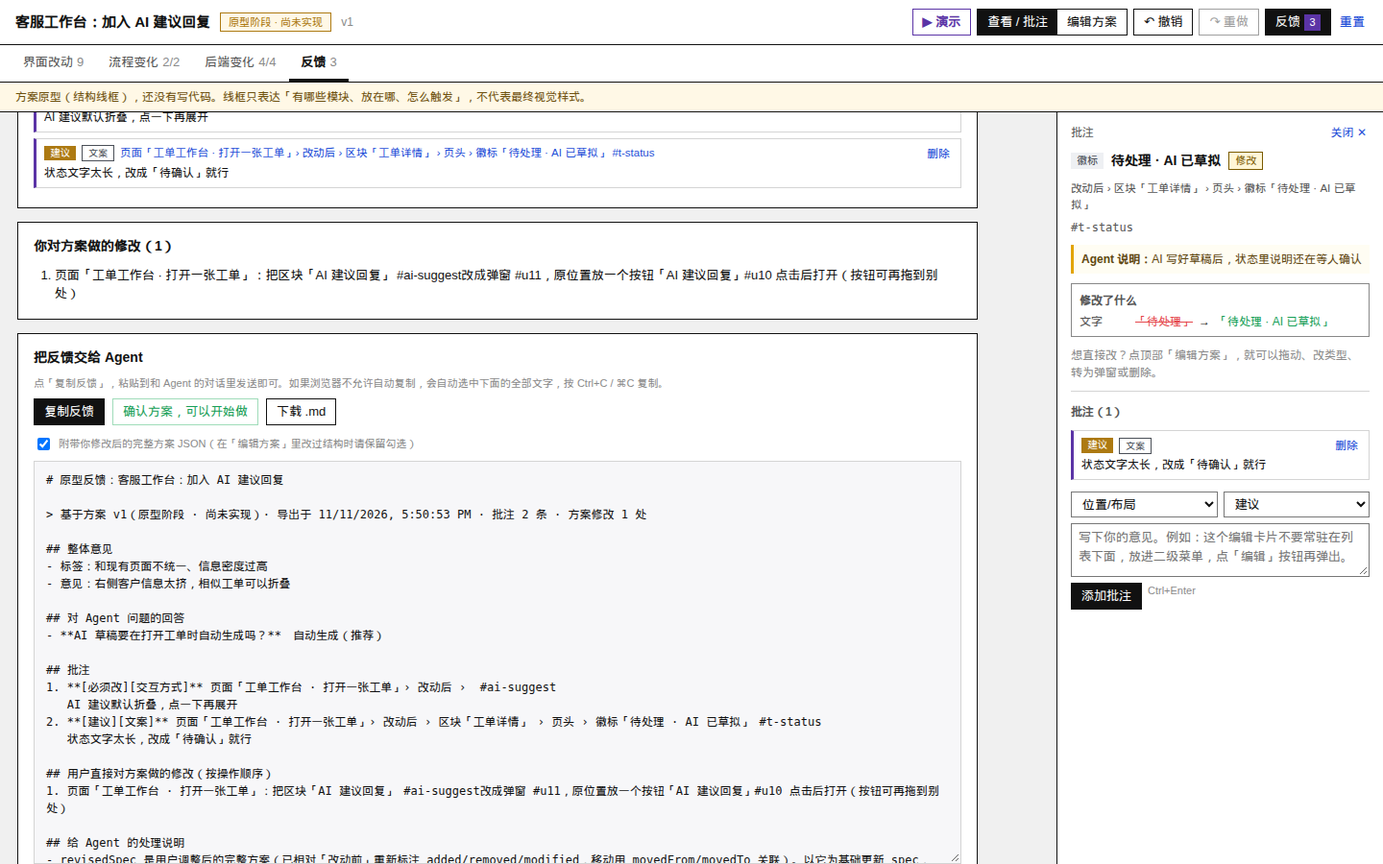
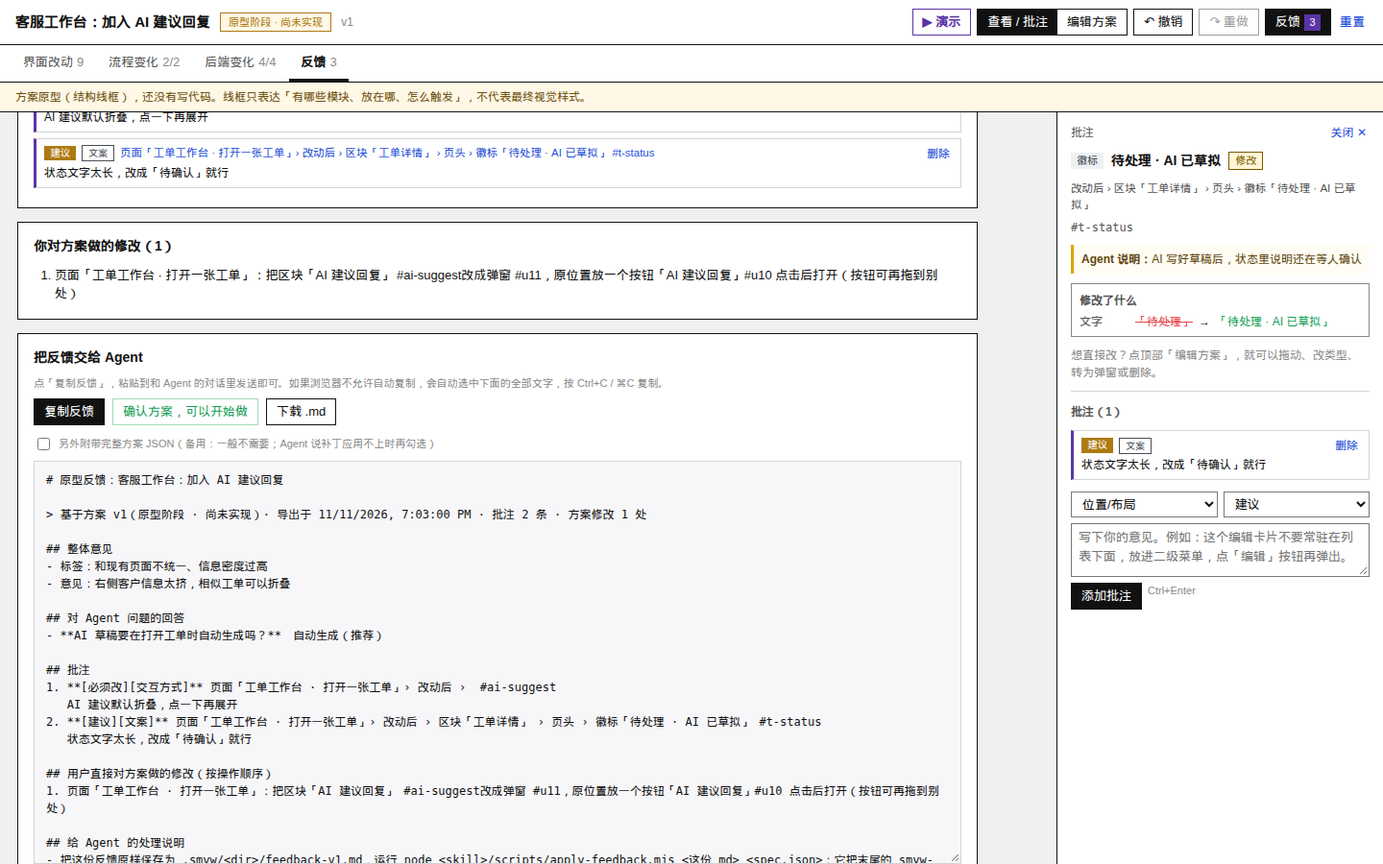
Feedback carries a node-level patch instead of the full spec; docs: edit specs in place

Changed region(s): [[0.0312, 0.9644, 0.6875, 1.0], [0.0312, 0.4978, 0.3125, 0.5289]]

diff --git a/skills/smyw/examples/helpdesk-ai/preview.html b/skills/smyw/examples/helpdesk-ai/preview.html
@@ -566,7 +566,7 @@ let S = loadState() || freshState();
 let undoStack = [];
 let redoStack = [];
 const uiSaved = readJSON(KEY + ':ui') || {};
-const ui = { tab: ['canvas', 'flows', 'backend', 'feedback'].indexOf(uiSaved.tab) >= 0 ? uiSaved.tab : 'canvas', page: uiSaved.page, mode: 'view', sel: null, unit: null, cam: null, showLinks: false, play: null, showFn: false, showComp: false, fade: false, space: false, panMoved: false, overlayOpen: null, includeSpec: true, confirmReset: false, toast: null };
+const ui = { tab: ['canvas', 'flows', 'backend', 'feedback'].indexOf(uiSaved.tab) >= 0 ? uiSaved.tab : 'canvas', page: uiSaved.page, mode: 'view', sel: null, unit: null, cam: null, showLinks: false, play: null, showFn: false, showComp: false, fade: false, space: false, panMoved: false, overlayOpen: null, includeSpec: false, confirmReset: false, toast: null };
 if (!pageById(ui.page)) { const first = S.spec.pages.find((p) => pageStatus(p) !== 'unchanged') || S.spec.pages[0]; ui.page = first ? first.id : null; }
 let drag = null;
 let dropEl = null;
@@ -2095,28 +2095,79 @@ function renderFeedback() {
         h('button', { class: 'primary', onclick: copyFeedback }, '复制反馈'),
         h('button', { class: 'ok' + (S.approved ? ' on' : ''), onclick: () => mutate(() => { S.approved = !S.approved; return null; }), title: '没有意见或意见不影响方向时勾选，Agent 会开始实现' }, S.approved ? '✓ 已确认方案' : '确认方案，可以开始做'),
         h('button', { onclick: () => download('feedback.md', buildMarkdown(ui.includeSpec), 'text/markdown'), title: '部分预览环境（沙箱）不允许下载' }, '下载 .md')),
-      h('label', { class: 'hint', style: 'display:flex;gap:6px;align-items:center;margin-bottom:8px' }, h('input', { type: 'checkbox', checked: ui.includeSpec, style: 'width:auto', onchange: (e) => { ui.includeSpec = e.target.checked; render(); } }), '附带你修改后的完整方案 JSON（在「编辑方案」里改过结构时请保留勾选）'),
+      h('label', { class: 'hint', style: 'display:flex;gap:6px;align-items:center;margin-bottom:8px' }, h('input', { type: 'checkbox', checked: ui.includeSpec, style: 'width:auto', onchange: (e) => { ui.includeSpec = e.target.checked; render(); } }), '另外附带完整方案 JSON（备用：一般不需要；Agent 说补丁应用不上时再勾选）'),
       h('textarea', { class: 'md', id: 'smyw-out', 'data-f': 'smyw-out', readonly: true, value: md, onfocus: (e) => e.target.select() })));
 }
 function answersList() {
   return S.spec.questions.map((q, i) => { const qq = typeof q === 'string' ? { q: q } : q; const key = qq.id || String(i); return { id: key, question: qq.q || qq.question || '', answer: S.answers[key] || '' }; }).filter((a) => a.answer);
 }
-function cleanSpec() {
-  const sp = clone(S.spec);
+function stripSpec(sp) {
   const strip = (o) => {
     if (Array.isArray(o)) { o.forEach(strip); return; }
     if (!o || typeof o !== 'object') return;
     Object.keys(o).forEach((k) => { if (k.charAt(0) === '_' || (k === 'change' && o[k] === 'unchanged')) delete o[k]; else strip(o[k]); });
   };
   strip(sp);
+  return sp;
+}
+function cleanSpec() {
+  const sp = stripSpec(clone(S.spec));
   sp.basedOnVersion = BASE.version;
   return sp;
 }
+/* ---- node-level patch (smyw-patch@1): what the user changed, relative to the spec the agent wrote.
+ * Every id-bearing object (page, node, flow, step, backend module / item) is addressed by id.
+ * ops: del {id} · move {id,parent,key} · add {parent,key,node} · set {id,set,unset} · order {parent,key,ids} · top {set,unset}
+ * parent "#spec" = the spec itself; key = pages | flows | backend | root | overlays | children | steps | items. */
+const PATCH_SKIP_TOP = new Set(['pages', 'flows', 'backend', 'version', 'basedOnVersion']);
+function flatSpec(sp) {
+  const nodes = new Map(), lists = new Map();
+  const put = (o, kind, parent, key) => {
+    if (!o || typeof o !== 'object' || o.id == null) return;
+    const id = String(o.id), fields = {};
+    const own = kind === 'page' ? ['root', 'overlays'] : kind === 'node' ? ['children'] : kind === 'flow' ? ['steps'] : kind === 'mod' ? ['items'] : [];
+    Object.keys(o).forEach((k) => { if (own.indexOf(k) < 0) fields[k] = o[k]; });
+    nodes.set(id, { kind: kind, parent: parent, key: key, fields: fields, obj: o });
+    const kids = (k, list, ck) => { if (!Array.isArray(list)) return; lists.set(id + ' ' + k, list.map((x) => String(x.id))); list.forEach((x) => put(x, ck, id, k)); };
+    if (kind === 'page') { if (o.root) put(o.root, 'node', id, 'root'); kids('overlays', o.overlays, 'node'); }
+    else if (kind === 'node') kids('children', o.children, 'node');
+    else if (kind === 'flow') kids('steps', o.steps, 'step');
+    else if (kind === 'mod') kids('items', o.items, 'item');
+  };
+  [['pages', 'page'], ['flows', 'flow'], ['backend', 'mod']].forEach((x) => { const list = sp[x[0]] || []; lists.set('#spec ' + x[0], list.map((o) => String(o.id))); list.forEach((o) => put(o, x[1], '#spec', x[0])); });
+  const top = {}; Object.keys(sp).forEach((k) => { if (!PATCH_SKIP_TOP.has(k)) top[k] = sp[k]; });
+  return { nodes: nodes, lists: lists, top: top };
+}
+function fieldDiff(a, b) {
+  const set = {}, unset = [];
+  Object.keys(b).forEach((k) => { if (!same(a[k], b[k])) set[k] = b[k]; });
+  Object.keys(a).forEach((k) => { if (!(k in b)) unset.push(k); });
+  return Object.keys(set).length || unset.length ? { set: set, unset: unset } : null;
+}
+function specPatch() {
+  const A = flatSpec(stripSpec(normalize(clone(BASE)))), B = flatSpec(stripSpec(clone(S.spec)));
+  const ops = [];
+  const isNew = (id) => id !== '#spec' && !A.nodes.has(id);
+  A.nodes.forEach((a, id) => { if (!B.nodes.has(id) && (a.parent === '#spec' || B.nodes.has(a.parent))) ops.push({ op: 'del', id: id }); });
+  B.nodes.forEach((b, id) => {
+    const a = A.nodes.get(id);
+    if (isNew(b.parent)) return;
+    if (!a) { ops.push({ op: 'add', parent: b.parent, key: b.key, node: clone(b.obj) }); return; }
+    if (a.parent !== b.parent || a.key !== b.key) ops.push({ op: 'move', id: id, parent: b.parent, key: b.key });
+    const d = fieldDiff(a.fields, b.fields);
+    if (d) { const op = { op: 'set', id: id, set: d.set }; if (d.unset.length) op.unset = d.unset; ops.push(op); }
+  });
+  B.lists.forEach((ids, k) => { const parent = k.split(' ')[0]; if (isNew(parent)) return; if (!same(A.lists.get(k) || null, ids)) ops.push({ op: 'order', parent: parent, key: k.split(' ')[1], ids: ids }); });
+  const t = fieldDiff(A.top, B.top);
+  if (t) { const op = { op: 'top', set: t.set }; if (t.unset.length) op.unset = t.unset; ops.push(op); }
+  return { format: 'smyw-patch@1', base: BASE.version, ops: ops };
+}
 function exportJSON() {
-  return { format: 'smyw-feedback@1', title: S.spec.title, baseVersion: BASE.version, stage: S.spec.stage, exportedAt: new Date().toISOString(), approved: !!S.approved, global: S.global, answers: answersList(), comments: S.comments, ops: S.ops, revisedSpec: cleanSpec() };
+  return { format: 'smyw-feedback@1', title: S.spec.title, baseVersion: BASE.version, stage: S.spec.stage, exportedAt: new Date().toISOString(), approved: !!S.approved, global: S.global, answers: answersList(), comments: S.comments, ops: S.ops, patch: specPatch(), revisedSpec: cleanSpec() };
 }
 function buildMarkdown(withSpec) {
   const sp = S.spec, L = [], g = S.global;
+  const patch = specPatch();
   L.push('# 原型反馈：' + sp.title, '');
   L.push('> 基于方案 v' + BASE.version + '（' + STAGES[sp.stage] + '）· 导出于 ' + new Date().toLocaleString() + ' · 批注 ' + S.comments.length + ' 条 · 方案修改 ' + S.ops.length + ' 处', '');
   if (S.approved) L.push('**✅ 用户已确认方案' + (S.comments.length || S.ops.length ? '（同时附带以下意见，请一并处理）' : '，可以开始实现') + '**', '');
@@ -2137,10 +2188,11 @@ function buildMarkdown(withSpec) {
   if (S.ops.length) { L.push('## 用户直接对方案做的修改（按操作顺序）'); S.ops.forEach((o, i) => L.push((i + 1) + '. ' + o.desc)); L.push(''); }
   if (!S.comments.length && !S.ops.length && !g.tags.length && !g.text && !ans.length && !S.approved) L.push('（暂无反馈）', '');
   L.push('## 给 Agent 的处理说明',
-    '- revisedSpec 是用户调整后的完整方案（已相对「改动前」重新标注 added/removed/modified，移动用 movedFrom/movedTo 关联）。以它为基础更新 spec，version + 1，重新构建预览。',
+    patch.ops.length ? '- 把这份反馈原样保存为 .smyw/<dir>/feedback-v' + BASE.version + '.md，运行 node <skill>/scripts/apply-feedback.mjs <这份 md> <spec.json>：它把末尾的 smyw-patch（用户对 v' + BASE.version + ' 的结构修改，已重新标注 added/removed/modified、movedFrom/movedTo）应用到 spec.json，version + 1。不要凭上面的操作描述手工重放。' : '- 用户没有改方案结构：直接在现有 spec 上落实批注，version + 1。',
     '- 「必须改」全部落实；「建议」尽量采纳，不采纳要说明理由；「疑问」先回答再动手。',
     '- 线框只表达结构和交互，不代表视觉样式；样式/风格类意见在实现时按项目现有设计规范落实。', '');
-  if (withSpec) L.push('<details><summary>revisedSpec（修改后的完整方案 JSON）</summary>', '', FENCE + 'json', JSON.stringify(cleanSpec(), null, 1), FENCE, '', '</details>', '');
+  if (patch.ops.length) L.push('<details><summary>smyw-patch（相对 v' + BASE.version + ' 的结构修改，' + patch.ops.length + ' 条）</summary>', '', FENCE + 'json', JSON.stringify(patch), FENCE, '', '</details>', '');
+  if (withSpec) L.push('<details><summary>revisedSpec（备用：修改后的完整方案 JSON）</summary>', '', FENCE + 'json', JSON.stringify(cleanSpec()), FENCE, '', '</details>', '');
   return L.join('\n');
 }
 async function copyText(s) {
@@ -2200,7 +2252,7 @@ window.smyw = {
     comment: (target, category, severity, text) => addComment(target, category, severity, text)
   },
   select: (sel) => { ui.sel = sel; render(); },
-  exportJSON: exportJSON, buildMarkdown: buildMarkdown, copyFeedback: copyFeedback, storageOk: STORAGE_OK
+  exportJSON: exportJSON, buildMarkdown: buildMarkdown, specPatch: specPatch, copyFeedback: copyFeedback, storageOk: STORAGE_OK
 };
 })();
 </script>

diff --git a/skills/smyw/examples/task-tags/preview.html b/skills/smyw/examples/task-tags/preview.html
@@ -566,7 +566,7 @@ let S = loadState() || freshState();
 let undoStack = [];
 let redoStack = [];
 const uiSaved = readJSON(KEY + ':ui') || {};
-const ui = { tab: ['canvas', 'flows', 'backend', 'feedback'].indexOf(uiSaved.tab) >= 0 ? uiSaved.tab : 'canvas', page: uiSaved.page, mode: 'view', sel: null, unit: null, cam: null, showLinks: false, play: null, showFn: false, showComp: false, fade: false, space: false, panMoved: false, overlayOpen: null, includeSpec: true, confirmReset: false, toast: null };
+const ui = { tab: ['canvas', 'flows', 'backend', 'feedback'].indexOf(uiSaved.tab) >= 0 ? uiSaved.tab : 'canvas', page: uiSaved.page, mode: 'view', sel: null, unit: null, cam: null, showLinks: false, play: null, showFn: false, showComp: false, fade: false, space: false, panMoved: false, overlayOpen: null, includeSpec: false, confirmReset: false, toast: null };
 if (!pageById(ui.page)) { const first = S.spec.pages.find((p) => pageStatus(p) !== 'unchanged') || S.spec.pages[0]; ui.page = first ? first.id : null; }
 let drag = null;
 let dropEl = null;
@@ -2095,28 +2095,79 @@ function renderFeedback() {
         h('button', { class: 'primary', onclick: copyFeedback }, '复制反馈'),
         h('button', { class: 'ok' + (S.approved ? ' on' : ''), onclick: () => mutate(() => { S.approved = !S.approved; return null; }), title: '没有意见或意见不影响方向时勾选，Agent 会开始实现' }, S.approved ? '✓ 已确认方案' : '确认方案，可以开始做'),
         h('button', { onclick: () => download('feedback.md', buildMarkdown(ui.includeSpec), 'text/markdown'), title: '部分预览环境（沙箱）不允许下载' }, '下载 .md')),
-      h('label', { class: 'hint', style: 'display:flex;gap:6px;align-items:center;margin-bottom:8px' }, h('input', { type: 'checkbox', checked: ui.includeSpec, style: 'width:auto', onchange: (e) => { ui.includeSpec = e.target.checked; render(); } }), '附带你修改后的完整方案 JSON（在「编辑方案」里改过结构时请保留勾选）'),
+      h('label', { class: 'hint', style: 'display:flex;gap:6px;align-items:center;margin-bottom:8px' }, h('input', { type: 'checkbox', checked: ui.includeSpec, style: 'width:auto', onchange: (e) => { ui.includeSpec = e.target.checked; render(); } }), '另外附带完整方案 JSON（备用：一般不需要；Agent 说补丁应用不上时再勾选）'),
       h('textarea', { class: 'md', id: 'smyw-out', 'data-f': 'smyw-out', readonly: true, value: md, onfocus: (e) => e.target.select() })));
 }
 function answersList() {
   return S.spec.questions.map((q, i) => { const qq = typeof q === 'string' ? { q: q } : q; const key = qq.id || String(i); return { id: key, question: qq.q || qq.question || '', answer: S.answers[key] || '' }; }).filter((a) => a.answer);
 }
-function cleanSpec() {
-  const sp = clone(S.spec);
+function stripSpec(sp) {
   const strip = (o) => {
     if (Array.isArray(o)) { o.forEach(strip); return; }
     if (!o || typeof o !== 'object') return;
     Object.keys(o).forEach((k) => { if (k.charAt(0) === '_' || (k === 'change' && o[k] === 'unchanged')) delete o[k]; else strip(o[k]); });
   };
   strip(sp);
+  return sp;
+}
+function cleanSpec() {
+  const sp = stripSpec(clone(S.spec));
   sp.basedOnVersion = BASE.version;
   return sp;
 }
+/* ---- node-level patch (smyw-patch@1): what the user changed, relative to the spec the agent wrote.
+ * Every id-bearing object (page, node, flow, step, backend module / item) is addressed by id.
+ * ops: del {id} · move {id,parent,key} · add {parent,key,node} · set {id,set,unset} · order {parent,key,ids} · top {set,unset}
+ * parent "#spec" = the spec itself; key = pages | flows | backend | root | overlays | children | steps | items. */
+const PATCH_SKIP_TOP = new Set(['pages', 'flows', 'backend', 'version', 'basedOnVersion']);
+function flatSpec(sp) {
+  const nodes = new Map(), lists = new Map();
+  const put = (o, kind, parent, key) => {
+    if (!o || typeof o !== 'object' || o.id == null) return;
+    const id = String(o.id), fields = {};
+    const own = kind === 'page' ? ['root', 'overlays'] : kind === 'node' ? ['children'] : kind === 'flow' ? ['steps'] : kind === 'mod' ? ['items'] : [];
+    Object.keys(o).forEach((k) => { if (own.indexOf(k) < 0) fields[k] = o[k]; });
+    nodes.set(id, { kind: kind, parent: parent, key: key, fields: fields, obj: o });
+    const kids = (k, list, ck) => { if (!Array.isArray(list)) return; lists.set(id + ' ' + k, list.map((x) => String(x.id))); list.forEach((x) => put(x, ck, id, k)); };
+    if (kind === 'page') { if (o.root) put(o.root, 'node', id, 'root'); kids('overlays', o.overlays, 'node'); }
+    else if (kind === 'node') kids('children', o.children, 'node');
+    else if (kind === 'flow') kids('steps', o.steps, 'step');
+    else if (kind === 'mod') kids('items', o.items, 'item');
+  };
+  [['pages', 'page'], ['flows', 'flow'], ['backend', 'mod']].forEach((x) => { const list = sp[x[0]] || []; lists.set('#spec ' + x[0], list.map((o) => String(o.id))); list.forEach((o) => put(o, x[1], '#spec', x[0])); });
+  const top = {}; Object.keys(sp).forEach((k) => { if (!PATCH_SKIP_TOP.has(k)) top[k] = sp[k]; });
+  return { nodes: nodes, lists: lists, top: top };
+}
+function fieldDiff(a, b) {
+  const set = {}, unset = [];
+  Object.keys(b).forEach((k) => { if (!same(a[k], b[k])) set[k] = b[k]; });
+  Object.keys(a).forEach((k) => { if (!(k in b)) unset.push(k); });
+  return Object.keys(set).length || unset.length ? { set: set, unset: unset } : null;
+}
+function specPatch() {
+  const A = flatSpec(stripSpec(normalize(clone(BASE)))), B = flatSpec(stripSpec(clone(S.spec)));
+  const ops = [];
+  const isNew = (id) => id !== '#spec' && !A.nodes.has(id);
+  A.nodes.forEach((a, id) => { if (!B.nodes.has(id) && (a.parent === '#spec' || B.nodes.has(a.parent))) ops.push({ op: 'del', id: id }); });
+  B.nodes.forEach((b, id) => {
+    const a = A.nodes.get(id);
+    if (isNew(b.parent)) return;
+    if (!a) { ops.push({ op: 'add', parent: b.parent, key: b.key, node: clone(b.obj) }); return; }
+    if (a.parent !== b.parent || a.key !== b.key) ops.push({ op: 'move', id: id, parent: b.parent, key: b.key });
+    const d = fieldDiff(a.fields, b.fields);
+    if (d) { const op = { op: 'set', id: id, set: d.set }; if (d.unset.length) op.unset = d.unset; ops.push(op); }
+  });
+  B.lists.forEach((ids, k) => { const parent = k.split(' ')[0]; if (isNew(parent)) return; if (!same(A.lists.get(k) || null, ids)) ops.push({ op: 'order', parent: parent, key: k.split(' ')[1], ids: ids }); });
+  const t = fieldDiff(A.top, B.top);
+  if (t) { const op = { op: 'top', set: t.set }; if (t.unset.length) op.unset = t.unset; ops.push(op); }
+  return { format: 'smyw-patch@1', base: BASE.version, ops: ops };
+}
 function exportJSON() {
-  return { format: 'smyw-feedback@1', title: S.spec.title, baseVersion: BASE.version, stage: S.spec.stage, exportedAt: new Date().toISOString(), approved: !!S.approved, global: S.global, answers: answersList(), comments: S.comments, ops: S.ops, revisedSpec: cleanSpec() };
+  return { format: 'smyw-feedback@1', title: S.spec.title, baseVersion: BASE.version, stage: S.spec.stage, exportedAt: new Date().toISOString(), approved: !!S.approved, global: S.global, answers: answersList(), comments: S.comments, ops: S.ops, patch: specPatch(), revisedSpec: cleanSpec() };
 }
 function buildMarkdown(withSpec) {
   const sp = S.spec, L = [], g = S.global;
+  const patch = specPatch();
   L.push('# 原型反馈：' + sp.title, '');
   L.push('> 基于方案 v' + BASE.version + '（' + STAGES[sp.stage] + '）· 导出于 ' + new Date().toLocaleString() + ' · 批注 ' + S.comments.length + ' 条 · 方案修改 ' + S.ops.length + ' 处', '');
   if (S.approved) L.push('**✅ 用户已确认方案' + (S.comments.length || S.ops.length ? '（同时附带以下意见，请一并处理）' : '，可以开始实现') + '**', '');
@@ -2137,10 +2188,11 @@ function buildMarkdown(withSpec) {
   if (S.ops.length) { L.push('## 用户直接对方案做的修改（按操作顺序）'); S.ops.forEach((o, i) => L.push((i + 1) + '. ' + o.desc)); L.push(''); }
   if (!S.comments.length && !S.ops.length && !g.tags.length && !g.text && !ans.length && !S.approved) L.push('（暂无反馈）', '');
   L.push('## 给 Agent 的处理说明',
-    '- revisedSpec 是用户调整后的完整方案（已相对「改动前」重新标注 added/removed/modified，移动用 movedFrom/movedTo 关联）。以它为基础更新 spec，version + 1，重新构建预览。',
+    patch.ops.length ? '- 把这份反馈原样保存为 .smyw/<dir>/feedback-v' + BASE.version + '.md，运行 node <skill>/scripts/apply-feedback.mjs <这份 md> <spec.json>：它把末尾的 smyw-patch（用户对 v' + BASE.version + ' 的结构修改，已重新标注 added/removed/modified、movedFrom/movedTo）应用到 spec.json，version + 1。不要凭上面的操作描述手工重放。' : '- 用户没有改方案结构：直接在现有 spec 上落实批注，version + 1。',
     '- 「必须改」全部落实；「建议」尽量采纳，不采纳要说明理由；「疑问」先回答再动手。',
     '- 线框只表达结构和交互，不代表视觉样式；样式/风格类意见在实现时按项目现有设计规范落实。', '');
-  if (withSpec) L.push('<details><summary>revisedSpec（修改后的完整方案 JSON）</summary>', '', FENCE + 'json', JSON.stringify(cleanSpec(), null, 1), FENCE, '', '</details>', '');
+  if (patch.ops.length) L.push('<details><summary>smyw-patch（相对 v' + BASE.version + ' 的结构修改，' + patch.ops.length + ' 条）</summary>', '', FENCE + 'json', JSON.stringify(patch), FENCE, '', '</details>', '');
+  if (withSpec) L.push('<details><summary>revisedSpec（备用：修改后的完整方案 JSON）</summary>', '', FENCE + 'json', JSON.stringify(cleanSpec()), FENCE, '', '</details>', '');
   return L.join('\n');
 }
 async function copyText(s) {
@@ -2200,7 +2252,7 @@ window.smyw = {
     comment: (target, category, severity, text) => addComment(target, category, severity, text)
   },
   select: (sel) => { ui.sel = sel; render(); },
-  exportJSON: exportJSON, buildMarkdown: buildMarkdown, copyFeedback: copyFeedback, storageOk: STORAGE_OK
+  exportJSON: exportJSON, buildMarkdown: buildMarkdown, specPatch: specPatch, copyFeedback: copyFeedback, storageOk: STORAGE_OK
 };
 })();
 </script>

diff --git a/skills/smyw/assets/runtime.js b/skills/smyw/assets/runtime.js
@@ -89,7 +89,7 @@ let S = loadState() || freshState();
 let undoStack = [];
 let redoStack = [];
 const uiSaved = readJSON(KEY + ':ui') || {};
-const ui = { tab: ['canvas', 'flows', 'backend', 'feedback'].indexOf(uiSaved.tab) >= 0 ? uiSaved.tab : 'canvas', page: uiSaved.page, mode: 'view', sel: null, unit: null, cam: null, showLinks: false, play: null, showFn: false, showComp: false, fade: false, space: false, panMoved: false, overlayOpen: null, includeSpec: true, confirmReset: false, toast: null };
+const ui = { tab: ['canvas', 'flows', 'backend', 'feedback'].indexOf(uiSaved.tab) >= 0 ? uiSaved.tab : 'canvas', page: uiSaved.page, mode: 'view', sel: null, unit: null, cam: null, showLinks: false, play: null, showFn: false, showComp: false, fade: false, space: false, panMoved: false, overlayOpen: null, includeSpec: false, confirmReset: false, toast: null };
 if (!pageById(ui.page)) { const first = S.spec.pages.find((p) => pageStatus(p) !== 'unchanged') || S.spec.pages[0]; ui.page = first ? first.id : null; }
 let drag = null;
 let dropEl = null;
@@ -1618,28 +1618,79 @@ function renderFeedback() {
         h('button', { class: 'primary', onclick: copyFeedback }, '复制反馈'),
         h('button', { class: 'ok' + (S.approved ? ' on' : ''), onclick: () => mutate(() => { S.approved = !S.approved; return null; }), title: '没有意见或意见不影响方向时勾选，Agent 会开始实现' }, S.approved ? '✓ 已确认方案' : '确认方案，可以开始做'),
         h('button', { onclick: () => download('feedback.md', buildMarkdown(ui.includeSpec), 'text/markdown'), title: '部分预览环境（沙箱）不允许下载' }, '下载 .md')),
-      h('label', { class: 'hint', style: 'display:flex;gap:6px;align-items:center;margin-bottom:8px' }, h('input', { type: 'checkbox', checked: ui.includeSpec, style: 'width:auto', onchange: (e) => { ui.includeSpec = e.target.checked; render(); } }), '附带你修改后的完整方案 JSON（在「编辑方案」里改过结构时请保留勾选）'),
+      h('label', { class: 'hint', style: 'display:flex;gap:6px;align-items:center;margin-bottom:8px' }, h('input', { type: 'checkbox', checked: ui.includeSpec, style: 'width:auto', onchange: (e) => { ui.includeSpec = e.target.checked; render(); } }), '另外附带完整方案 JSON（备用：一般不需要；Agent 说补丁应用不上时再勾选）'),
       h('textarea', { class: 'md', id: 'smyw-out', 'data-f': 'smyw-out', readonly: true, value: md, onfocus: (e) => e.target.select() })));
 }
 function answersList() {
   return S.spec.questions.map((q, i) => { const qq = typeof q === 'string' ? { q: q } : q; const key = qq.id || String(i); return { id: key, question: qq.q || qq.question || '', answer: S.answers[key] || '' }; }).filter((a) => a.answer);
 }
-function cleanSpec() {
-  const sp = clone(S.spec);
+function stripSpec(sp) {
   const strip = (o) => {
     if (Array.isArray(o)) { o.forEach(strip); return; }
     if (!o || typeof o !== 'object') return;
     Object.keys(o).forEach((k) => { if (k.charAt(0) === '_' || (k === 'change' && o[k] === 'unchanged')) delete o[k]; else strip(o[k]); });
   };
   strip(sp);
+  return sp;
+}
+function cleanSpec() {
+  const sp = stripSpec(clone(S.spec));
   sp.basedOnVersion = BASE.version;
   return sp;
 }
+/* ---- node-level patch (smyw-patch@1): what the user changed, relative to the spec the agent wrote.
+ * Every id-bearing object (page, node, flow, step, backend module / item) is addressed by id.
+ * ops: del {id} · move {id,parent,key} · add {parent,key,node} · set {id,set,unset} · order {parent,key,ids} · top {set,unset}
+ * parent "#spec" = the spec itself; key = pages | flows | backend | root | overlays | children | steps | items. */
+const PATCH_SKIP_TOP = new Set(['pages', 'flows', 'backend', 'version', 'basedOnVersion']);
+function flatSpec(sp) {
+  const nodes = new Map(), lists = new Map();
+  const put = (o, kind, parent, key) => {
+    if (!o || typeof o !== 'object' || o.id == null) return;
+    const id = String(o.id), fields = {};
+    const own = kind === 'page' ? ['root', 'overlays'] : kind === 'node' ? ['children'] : kind === 'flow' ? ['steps'] : kind === 'mod' ? ['items'] : [];
+    Object.keys(o).forEach((k) => { if (own.indexOf(k) < 0) fields[k] = o[k]; });
+    nodes.set(id, { kind: kind, parent: parent, key: key, fields: fields, obj: o });
+    const kids = (k, list, ck) => { if (!Array.isArray(list)) return; lists.set(id + ' ' + k, list.map((x) => String(x.id))); list.forEach((x) => put(x, ck, id, k)); };
+    if (kind === 'page') { if (o.root) put(o.root, 'node', id, 'root'); kids('overlays', o.overlays, 'node'); }
+    else if (kind === 'node') kids('children', o.children, 'node');
+    else if (kind === 'flow') kids('steps', o.steps, 'step');
+    else if (kind === 'mod') kids('items', o.items, 'item');
+  };
+  [['pages', 'page'], ['flows', 'flow'], ['backend', 'mod']].forEach((x) => { const list = sp[x[0]] || []; lists.set('#spec ' + x[0], list.map((o) => String(o.id))); list.forEach((o) => put(o, x[1], '#spec', x[0])); });
+  const top = {}; Object.keys(sp).forEach((k) => { if (!PATCH_SKIP_TOP.has(k)) top[k] = sp[k]; });
+  return { nodes: nodes, lists: lists, top: top };
+}
+function fieldDiff(a, b) {
+  const set = {}, unset = [];
+  Object.keys(b).forEach((k) => { if (!same(a[k], b[k])) set[k] = b[k]; });
+  Object.keys(a).forEach((k) => { if (!(k in b)) unset.push(k); });
+  return Object.keys(set).length || unset.length ? { set: set, unset: unset } : null;
+}
+function specPatch() {
+  const A = flatSpec(stripSpec(normalize(clone(BASE)))), B = flatSpec(stripSpec(clone(S.spec)));
+  const ops = [];
+  const isNew = (id) => id !== '#spec' && !A.nodes.has(id);
+  A.nodes.forEach((a, id) => { if (!B.nodes.has(id) && (a.parent === '#spec' || B.nodes.has(a.parent))) ops.push({ op: 'del', id: id }); });
+  B.nodes.forEach((b, id) => {
+    const a = A.nodes.get(id);
+    if (isNew(b.parent)) return;
+    if (!a) { ops.push({ op: 'add', parent: b.parent, key: b.key, node: clone(b.obj) }); return; }
+    if (a.parent !== b.parent || a.key !== b.key) ops.push({ op: 'move', id: id, parent: b.parent, key: b.key });
+    const d = fieldDiff(a.fields, b.fields);
+    if (d) { const op = { op: 'set', id: id, set: d.set }; if (d.unset.length) op.unset = d.unset; ops.push(op); }
+  });
+  B.lists.forEach((ids, k) => { const parent = k.split(' ')[0]; if (isNew(parent)) return; if (!same(A.lists.get(k) || null, ids)) ops.push({ op: 'order', parent: parent, key: k.split(' ')[1], ids: ids }); });
+  const t = fieldDiff(A.top, B.top);
+  if (t) { const op = { op: 'top', set: t.set }; if (t.unset.length) op.unset = t.unset; ops.push(op); }
+  return { format: 'smyw-patch@1', base: BASE.version, ops: ops };
+}
 function exportJSON() {
-  return { format: 'smyw-feedback@1', title: S.spec.title, baseVersion: BASE.version, stage: S.spec.stage, exportedAt: new Date().toISOString(), approved: !!S.approved, global: S.global, answers: answersList(), comments: S.comments, ops: S.ops, revisedSpec: cleanSpec() };
+  return { format: 'smyw-feedback@1', title: S.spec.title, baseVersion: BASE.version, stage: S.spec.stage, exportedAt: new Date().toISOString(), approved: !!S.approved, global: S.global, answers: answersList(), comments: S.comments, ops: S.ops, patch: specPatch(), revisedSpec: cleanSpec() };
 }
 function buildMarkdown(withSpec) {
   const sp = S.spec, L = [], g = S.global;
+  const patch = specPatch();
   L.push('# 原型反馈：' + sp.title, '');
   L.push('> 基于方案 v' + BASE.version + '（' + STAGES[sp.stage] + '）· 导出于 ' + new Date().toLocaleString() + ' · 批注 ' + S.comments.length + ' 条 · 方案修改 ' + S.ops.length + ' 处', '');
   if (S.approved) L.push('**✅ 用户已确认方案' + (S.comments.length || S.ops.length ? '（同时附带以下意见，请一并处理）' : '，可以开始实现') + '**', '');
@@ -1660,10 +1711,11 @@ function buildMarkdown(withSpec) {
   if (S.ops.length) { L.push('## 用户直接对方案做的修改（按操作顺序）'); S.ops.forEach((o, i) => L.push((i + 1) + '. ' + o.desc)); L.push(''); }
   if (!S.comments.length && !S.ops.length && !g.tags.length && !g.text && !ans.length && !S.approved) L.push('（暂无反馈）', '');
   L.push('## 给 Agent 的处理说明',
-    '- revisedSpec 是用户调整后的完整方案（已相对「改动前」重新标注 added/removed/modified，移动用 movedFrom/movedTo 关联）。以它为基础更新 spec，version + 1，重新构建预览。',
+    patch.ops.length ? '- 把这份反馈原样保存为 .smyw/<dir>/feedback-v' + BASE.version + '.md，运行 node <skill>/scripts/apply-feedback.mjs <这份 md> <spec.json>：它把末尾的 smyw-patch（用户对 v' + BASE.version + ' 的结构修改，已重新标注 added/removed/modified、movedFrom/movedTo）应用到 spec.json，version + 1。不要凭上面的操作描述手工重放。' : '- 用户没有改方案结构：直接在现有 spec 上落实批注，version + 1。',
     '- 「必须改」全部落实；「建议」尽量采纳，不采纳要说明理由；「疑问」先回答再动手。',
     '- 线框只表达结构和交互，不代表视觉样式；样式/风格类意见在实现时按项目现有设计规范落实。', '');
-  if (withSpec) L.push('<details><summary>revisedSpec（修改后的完整方案 JSON）</summary>', '', FENCE + 'json', JSON.stringify(cleanSpec(), null, 1), FENCE, '', '</details>', '');
+  if (patch.ops.length) L.push('<details><summary>smyw-patch（相对 v' + BASE.version + ' 的结构修改，' + patch.ops.length + ' 条）</summary>', '', FENCE + 'json', JSON.stringify(patch), FENCE, '', '</details>', '');
+  if (withSpec) L.push('<details><summary>revisedSpec（备用：修改后的完整方案 JSON）</summary>', '', FENCE + 'json', JSON.stringify(cleanSpec()), FENCE, '', '</details>', '');
   return L.join('\n');
 }
 async function copyText(s) {
@@ -1723,6 +1775,6 @@ window.smyw = {
     comment: (target, category, severity, text) => addComment(target, category, severity, text)
   },
   select: (sel) => { ui.sel = sel; render(); },
-  exportJSON: exportJSON, buildMarkdown: buildMarkdown, copyFeedback: copyFeedback, storageOk: STORAGE_OK
+  exportJSON: exportJSON, buildMarkdown: buildMarkdown, specPatch: specPatch, copyFeedback: copyFeedback, storageOk: STORAGE_OK
 };
 })();

diff --git a/skills/smyw/references/spec-format.md b/skills/smyw/references/spec-format.md
@@ -159,11 +159,25 @@ action：
 ## 批注                                     ← 1. **[必须改][交互方式]** 页面「任务列表」› 改动后 › … #btn-new
 ## 用户直接对方案做的修改（按操作顺序）       ← 每条一句话，说明意图
 ## 给 Agent 的处理说明
-<details><summary>revisedSpec …</summary>
+<details><summary>smyw-patch（相对 v1 的结构修改，N 条）</summary>
 ```json
-{ …用户改完后的完整 spec，格式与输入相同，另带 basedOnVersion… }
+{"format":"smyw-patch@1","base":1,"ops":[ … ]}
 ```
 </details>
+<details><summary>revisedSpec（备用：完整方案）</summary> …   ← 只在用户勾选时出现
 ~~~
 
-`scripts/apply-feedback.mjs` 会取出最后的 revisedSpec 代码块，写成下一版 spec。
+### smyw-patch@1
+
+`base` 是补丁基于的 spec 版本，必须等于磁盘上 spec.json 的 version，否则脚本拒绝应用。节点（页面、元素、弹层、流程、步骤、后端模块和条目）都按 `id` 定位；`parent` 为 `"#spec"` 表示 spec 本身。
+
+| op | 字段 | 含义 |
+|---|---|---|
+| `del` | `id` | 删掉这个节点（连同子节点） |
+| `move` | `id` `parent` `key` | 挪到另一个容器（key：pages / flows / backend / root / overlays / children / steps / items） |
+| `add` | `parent` `key` `node` | 新增节点，`node` 是带子节点的完整内容 |
+| `set` | `id` `set` `unset` | 改这个节点自己的字段（不含子节点），`unset` 是要删掉的字段名 |
+| `order` | `parent` `key` `ids` | 这个容器里子节点的最终顺序 |
+| `top` | `set` `unset` | 改 spec 顶层字段（title、summary…） |
+
+`scripts/apply-feedback.mjs` 按 del → move → add → set → order → top 的顺序应用。补丁和「完整方案」应用后的结果完全一致（端到端测试里有校验）。

diff --git a/README.md b/README.md
@@ -202,7 +202,7 @@ node skills/smyw/scripts/build.mjs skills/smyw/examples/helpdesk-ai/spec.json
 
 ![反馈页](docs/screenshots/16-feedback.png)
 
-点「复制反馈」得到一段 Markdown，末尾附带你改完后的完整方案 JSON，粘贴到对话里发给 Agent 即可。没意见就点「确认方案，可以开始做」。
+点「复制反馈」得到一段 Markdown，粘贴到对话里发给 Agent 即可。你在图上做的结构修改只以**补丁**形式附在末尾（只含改动，按 id 定位），比附带整份方案小好几倍，Agent 用脚本应用，不用把整份方案读一遍。没意见就点「确认方案，可以开始做」。
 
 ![复制反馈](docs/screenshots/17-copy-feedback.png)
 
@@ -225,7 +225,7 @@ node skills/smyw/scripts/build.mjs skills/smyw/examples/helpdesk-ai/spec.json
 Agent 会把你粘贴的反馈存成 `feedback-v<N>.md`，然后：
 
 ```bash
-# 取出反馈里的完整方案，旧 spec 备份为 spec-v<N>.json，写入 version + 1
+# 应用反馈里的补丁，旧 spec 备份为 spec-v<N>.json，写入 version + 1（版本对不上会拒绝）
 node skills/smyw/scripts/apply-feedback.mjs .smyw/<dir>/feedback-v1.md .smyw/<dir>/spec.json
 # 落实批注后重新生成
 node skills/smyw/scripts/build.mjs .smyw/<dir>/spec.json
